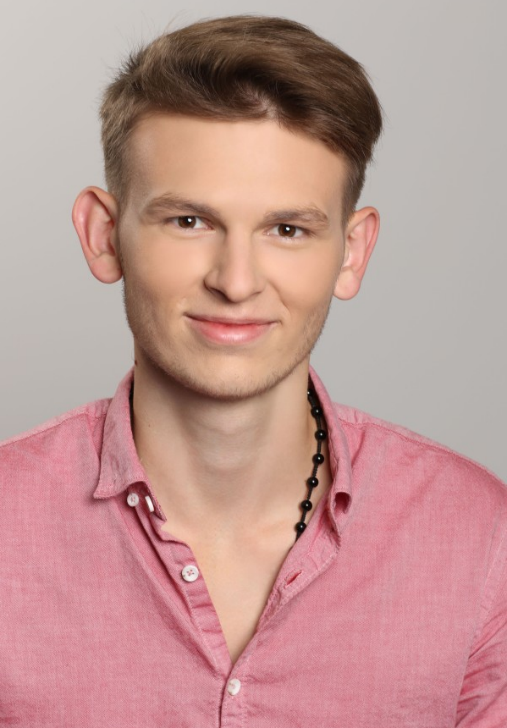
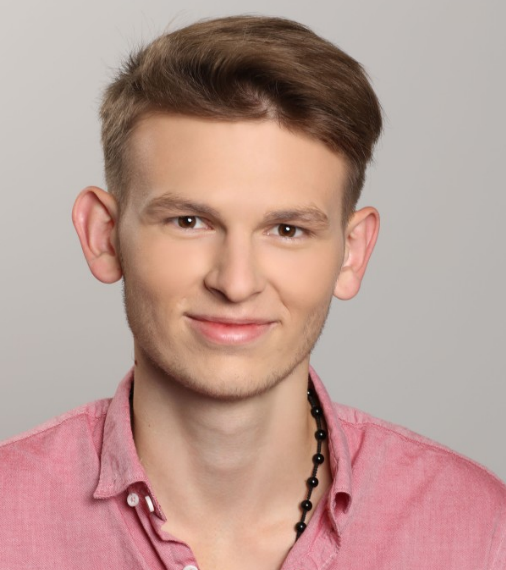
Deployment for Mindaugas Check

diff --git a/src/pages/index.js b/src/pages/index.js
@@ -2,8 +2,8 @@ import { Link } from 'gatsby'
 import React from 'react'
 import Helmet from 'react-helmet'
 import { Waypoint } from 'react-waypoint'
-import pic01 from '../assets/images/pic01.jpg'
-// import profile from '../assets/images/profile.png'
+import yinYang from '../assets/images/yin_yang.svg'
+import profile from '../assets/images/Profile.png'
 import Header from '../components/Header'
 import Layout from '../components/layout'
 // import Nav from '../components/Nav'
@@ -42,55 +42,57 @@ class Index extends React.Component {
             <div className="spotlight">
               <div className="content">
                 <header className="major">
-                  <h2>Džiugas Šablauskas</h2>
+                  <h2>Esu Džiugas Šablauskas</h2>
                 </header>
                 <p>
-                  Sed lorem ipsum dolor sit amet nullam consequat feugiat
-                  consequat magna adipiscing magna etiam amet veroeros. Lorem
-                  ipsum dolor tempus sit cursus. Tempus nisl et nullam lorem
-                  ipsum dolor sit amet aliquam.
+                  Esu naujovių bei technologijų entuziastas, patinka nauda, kurią technologijos suteikia. 
+                  Esu 'Programišius', užsiimu internetinių bei mobiliųjų aplikacijų kurimu,
+                  studijuoju informacinių technologijų verslą universitete.
+                  Technologijos - neatsiejama dalis mano gyvenime, tačiau atneša išsiblaškymą bei kitus šešėlius...<br /><br />
+                  Taip kilo siekis rasti ir tinkamai pritaikyti technologijų apribojimo galimybes. 
+                  Šiandien jau daugiau nei trys metai, kaip taikau įrenginių apribojimus.
                 </p>
-                <ul className="actions">
+                {/* <ul className="actions">
                   <li>
                     <Link to="/generic" className="button">
                       Sužinok daugiau
                     </Link>
                   </li>
-                </ul>
+                </ul> */}
               </div>
               <span className="image">
-                <img src={pic01} alt="" />
+                <img src={profile} alt="Profilio nuotrauka" />
               </span>
             </div>
           </section>
 
           <section id="first" className="main special">
             <header className="major">
-              <h2>Darbo vertybės</h2>
+              <h2>Apribojimo Siekiai</h2>
             </header>
             <ul className="features">
               <li>
-                <span className="icon major style1 fa-code"></span>
-                <h3>Raudona vertybė</h3>
+                <span className="icon major style1 fa-laptop"></span>
+                <h3>Priklausomybės Laisvė</h3>
                 <p>
-                  Sed lorem amet ipsum dolor et amet nullam consequat a feugiat
-                  consequat tempus veroeros sed consequat.
+                  Priklausomybės nesuvokiame, kol nepamatome naudojimosi statistikos duomenų.
+                  Apribojimas padės statistikos skaičius sumažinti
                 </p>
               </li>
               <li>
-                <span className="icon major style3 fa-copy"></span>
-                <h3>Purpurinė vertybė</h3>
+                <span className="icon major style5 fa-adjust"></span>
+                <h3>Sąmoningumas</h3>
                 <p>
-                  Sed lorem amet ipsum dolor et amet nullam consequat a feugiat
-                  consequat tempus veroeros sed consequat.
+                  Įpročiai pastebimi, kai atkreipiame dėmesį į įrenginio naudojimąsi.
+                  Tuomet imame sąmoningiau ir tikslingiau naudotis technologijomis
                 </p>
               </li>
               <li>
-                <span className="icon major style5 fa-diamond"></span>
-                <h3>Mėlyna vertybė</h3>
+                <span className="icon major style3 fa-diamond"></span>
+                <h3>Disciplinos Ugdymas</h3>
                 <p>
-                  Sed lorem amet ipsum dolor et amet nullam consequat a feugiat
-                  consequat tempus veroeros sed consequat.
+                  Kartais sunku nustoti naršyti ar naudotis įrenginiu, tačiau esant limitams 
+                  atsikratomas dažnas "Dar truputi panaršysiu" įprotis
                 </p>
               </li>
             </ul>
@@ -107,48 +109,60 @@ class Index extends React.Component {
 
           <section id="second" className="main special">
             <header className="major">
-              <h2>Individuali Konfiguracija</h2>
+              <h2>Individuali Įrenginio Konfiguracija</h2>
               <p>
-                Donec imperdiet consequat consequat. Suspendisse feugiat congue
-                <br />
-                posuere. Nulla massa urna, fermentum eget quam aliquet.
+                Esate užsiėmę ir neturite laiko apribojimų įdiegimui ar tiesiog sudėtinga gaudytis technologijų pinklėse?
               </p>
             </header>
             <ul className="statistics">
               {/* <li className="style1">
                 <span className="icon fa-code-fork"></span>
                 <strong>5,120</strong> Etiam
-              </li>
-              <li className="style2">
+              </li> */}
+              {/* <li className="style2">
                 <span className="icon fa-folder-open-o"></span>
                 <strong>8,192</strong> Magna
               </li> */}
               <li className="style3">
-                <span className="icon fa-signal"></span>
-                <strong>2,048</strong> Tikslumas
+                <span className="icon fa-signal"></span><br/>
+                Padėsiu sutaupyti laiką ir tinkamai sukonfigūruoti jūsų įrenginį
               </li>
               <li className="style5">
-                <span className="icon fa-diamond"></span>
-                <strong>3,924</strong> Vertė
+                <span className="icon fa-diamond"></span><br />
+                Apmokysiu, kad kitą kartą norint atnaujinti apribojimus, tai padaryti galėtumėte lengvai patys
               </li>
               <li className="style4">
-                <span className="icon fa-laptop"></span>
-                <strong>3,076</strong> Techniškumas
+                <span className="icon fa-laptop"></span><br />
+                Atsakysiu į klausimus bei parinksiu geriausią apribojimų variantą
               </li>
             </ul>
-            <p className="content">
-              Nam elementum nisl et mi a commodo porttitor. Morbi sit amet nisl
-              eu arcu faucibus hendrerit vel a risus. Nam a orci mi, elementum
-              ac arcu sit amet, fermentum pellentesque et purus. Integer maximus
-              varius lorem, sed convallis diam accumsan sed. Etiam porttitor
-              placerat sapien, sed eleifend a enim pulvinar faucibus semper quis
-              ut arcu. Ut non nisl a mollis est efficitur vestibulum. Integer
-              eget purus nec nulla mattis et accumsan ut magna libero. Morbi
-              auctor iaculis porttitor. Sed ut magna ac risus et hendrerit
-              scelerisque. Praesent eleifend lacus in lectus aliquam porta. Cras
-              eu ornare dui curabitur lacinia.
+            <header className="major">
+            <p>
+              Individualios Konfiguracijos Kaina: 60 eur.<br/>
+              Jei domina, drąsiai kreipkitės ir suderinsime jums patogų susitikimo laiką bei būdą!<br/>
+              Susisiekti galite elektroniniu paštu: <span style={{fontWeight: "400"}}>blauskas@gmail.com</span><br/>
+              Arba socialiniais tinklais:
             </p>
-            <footer className="major">
+              <ul className="icons">
+                <li>
+                    <a 
+                      href="https://www.facebook.com/profile.php?id=100007791466332"
+                     className="icon fa-facebook alt" style={{marginRight: "2vh"}}
+                     >
+                    <span className="label">Facebook</span>
+                  </a>
+                </li>
+                <li>
+                  <a 
+                    href="https://www.instagram.com/sablauskas.cia/" 
+                    className="icon fa-instagram alt"
+                  >
+                    <span className="label">Instagram</span>
+                  </a>
+                </li>
+              </ul>
+            </header>
+            {/* <footer className="major">
               <ul className="actions">
                 <li>
                   <Link to="/generic" className="button">
@@ -156,14 +170,14 @@ class Index extends React.Component {
                   </Link>
                 </li>
               </ul>
-            </footer>
+            </footer> */}
           </section>
 
           <section id="cta" className="main special">
-            <header className="major">
+            <header className="major" style={{display: "flex", justifyContent: "center", alignItems: "center", flexDirection: "column"}}>
               {/* <h2>Congue imperdiet</h2> */}
-              <p>"Žodžiai, kurie tinkamai apipavidalina, tai kodėl verta atkreipti dėmesį į technologijų naudojimąsi"</p>
-              <p>Pabaiga</p>
+              <p style={{fontWeight: 400}}>Technologijos yra skirtos palengvinti bei pagerinti mūsų gyvenimą, o ne apsunkinti</p>
+              <span className="logo" style={{width: "10vh",height: "10vh"}}><img src={yinYang} alt="" /></span>
             </header>
             
             <footer className="major">

diff --git a/src/components/Footer.js b/src/components/Footer.js
@@ -3,7 +3,7 @@ import React from 'react'
 
 const Footer = props => (
   <footer id="footer">
-    <section>
+    {/* <section>
       <h2>Papildoma informacija</h2>
       <p>
         Sed lorem ipsum dolor sit amet et nullam consequat feugiat consequat
@@ -11,24 +11,22 @@ const Footer = props => (
         aliquet, nisl ut viverra sollicitudin, ligula erat egestas velit, vitae
         tincidunt odio.
       </p>
-      {/* <ul className="actions">
+      <ul className="actions">
         <li>
           <Link to="/generic" className="button">
             Learn More
           </Link>
         </li>
-      </ul> */}
+      </ul>
     </section>
     <section>
       <h2>Kontaktai</h2>
       <dl className="alt">
-        {/* <dt>Adresas</dt>
-        <dd>1234 Somewhere Road &bull; Nashville, TN 00000 &bull; USA</dd> */}
         <dt>Kontaktinis Telefonas:</dt>
         <dd>+447395679106</dd>
         <dt>Elektroninis Adresas:</dt>
         <dd>
-          {/* <a href="https://codebushi.com">information@untitled.tld</a> */}
+          <a href="https://codebushi.com">information@untitled.tld</a>
           <a href="#">blauskas@gmail.com</a>
         </dd>
       </dl>
@@ -52,7 +50,7 @@ const Footer = props => (
           </a>
         </li>
 
-        {/* <li>
+        <li>
           <a
             href="https://twitter.com/huntaroSan"
             className="icon fa-twitter alt"
@@ -82,12 +80,12 @@ const Footer = props => (
           <a href="https://codebushi.com" className="icon fa-dribbble alt">
             <span className="label">Dribbble</span>
           </a>
-        </li> */}
+        </li>
       </ul>
     </section>
     <p className="copyright">
       &copy; Untitled. Design: <a href="https://html5up.net">HTML5 UP</a>.
-    </p>
+    </p> */}
   </footer>
 )
 

diff --git a/src/assets/scss/base/_page.scss b/src/assets/scss/base/_page.scss
@@ -27,7 +27,9 @@
 		background-color: _palette(bg);
 		@include vendor('background-image', (
 			'url("../images/overlay.png")',
-			'linear-gradient(45deg, #{_palette(bg1)} 15%, #{_palette(bg2) 85%})',
+			linear-gradient( 55deg, #6C6ABE 2%, #D07954 98%),
+			// linear-gradient(55deg, #D07954 2%, #824DAC 98%),
+			// 'linear-gradient(45deg, #{_palette(bg1)} 15%, #{_palette(bg2) 85%})',
 		));
 
 		// Prevents animation/transition "flicker" on page load.

diff --git a/src/assets/scss/base/_typography.scss b/src/assets/scss/base/_typography.scss
@@ -56,10 +56,10 @@
 		margin: 0 0 _size(element-margin) 0;
 
 		&.content {
-			-moz-columns: 20em 2;
-			-webkit-columns: 20em 2;
-			-ms-columns: 20em 2;
-			columns: 20em 2;
+			-moz-columns: 10em 3;
+			-webkit-columns: 10em 3;
+			-ms-columns: 10em 3;
+			columns: 10em 3;
 			-moz-column-gap: _size(element-margin);
 			-webkit-column-gap: _size(element-margin);
 			-ms-column-gap: _size(element-margin);

diff --git a/src/components/Header.js b/src/components/Header.js
@@ -5,7 +5,7 @@ import logo from '../assets/images/logo.svg';
 const Header = (props) => (
     <header id="header" className="alt">
         <span className="logo"><img src={logo} alt="" /></span>
-        <h1>Technologijos</h1>
+        <h1>Technologijų Apribojimas</h1>
         {/* <p>Just another, fully responsive website</p> */}
     </header>
 )
